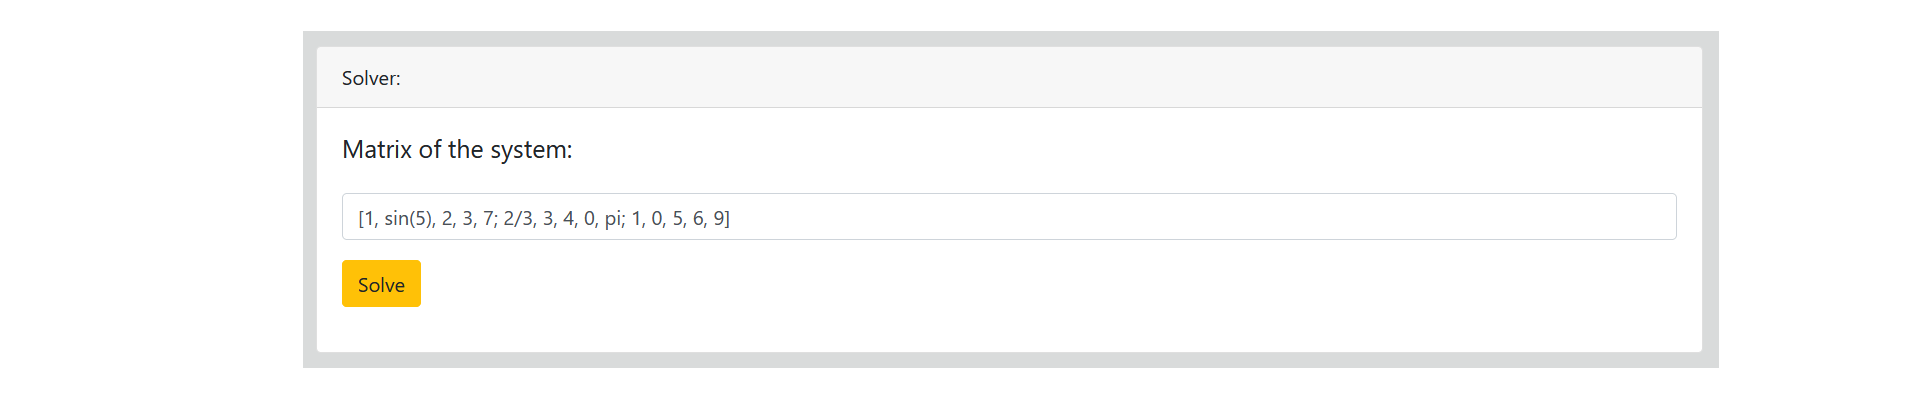
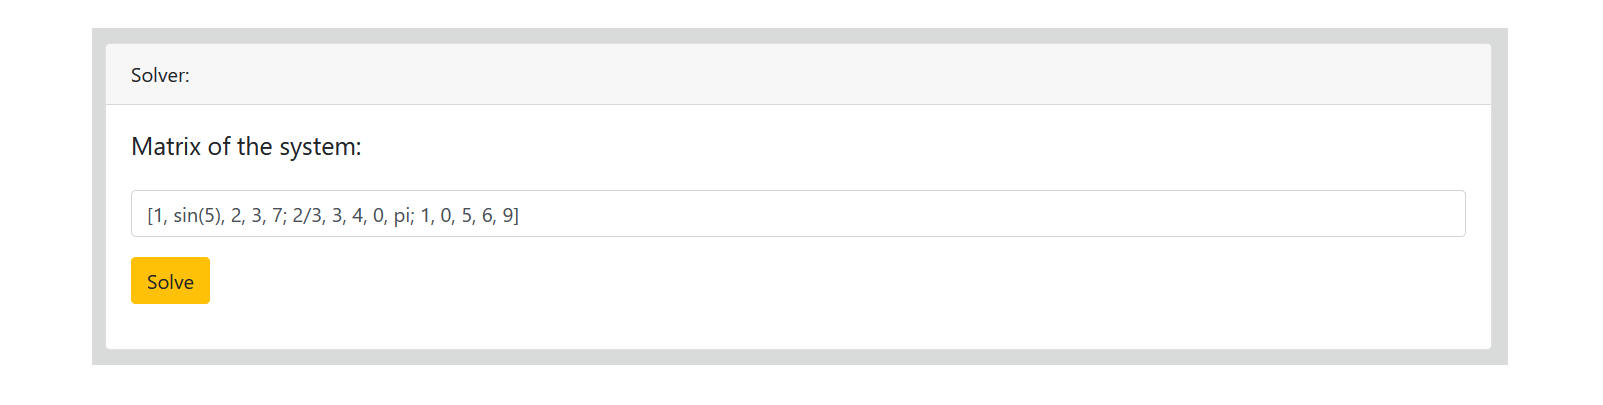
To heroku

Changed region(s): [[0.0312, 0.0593, 0.9669, 0.9185]]

diff --git a/templates/index.html b/templates/index.html
@@ -25,7 +25,7 @@
               <ul class=flashes>
               {% for message in messages %}
                 <li>
-                  <div class="alert alert-warning alert-dismissible fade show" role="alert">
+                  <div class="alert alert-danger alert-dismissible fade show" role="alert">
                       <strong>Holy guacamole!</strong> {{message}}
                       <button type="button" class="close" data-dismiss="alert" aria-label="Close">
                         <span aria-hidden="true">&times;</span>
@@ -38,10 +38,31 @@
           {% endwith %}
 
           <section>
-            <h1>Portada</h1>
+            <h1>Systems of Equations Solver</h1>
+            <p>Solve linear systems of equations of dimension NxN with real coefficients.</p>
           </section>
           
           <br>
+          <div class="card border-danger mb-3">
+            <div class="card-header">
+              <h3>
+                Example:
+              </h3>
+            </div>
+            <div class="card-body">
+              <p>For the system:</p>
+            </div>
+            <img src="{{ url_for('static', filename='images/screenshot1.png') }}" class="card-img-bottom" alt="">
+            <div class="card-footer border-danger">
+              <p>The input of the solver is the extended matrix of the system:</p> 
+              <p style="text-align: center;">[1, sin(5), 2, 3, 7; 2/3, 3, 4, 0, pi; 1, 0, 5, 6, 9]</p>
+            </div>
+          </div>
+          
+          <br>
+          <hr>
+          <br>
+
           <div class="card">
               <div class="card-header">
                   Solver:
@@ -59,7 +80,7 @@
                               <input class="form-control" type="text" id="matrix" name="matrix" value="{{matrix}}" required>
                           </div>
                       </div>
-                      <input class="btn btn-warning" type="submit" value="Solve"> 
+                      <input class="btn btn-danger" type="submit" value="Solve"> 
                   </form>
                 </p>
               </div>

diff --git a/README.md b/README.md
@@ -8,7 +8,7 @@
 
 ## Introduction
 
-A web app powered by Flask to calculate the solution of systems of linear equations of dimension NxN with real coefficients. The solver function is an implementaction of the Gauss–Jordan elimination method and the app is deployed on Heroku.
+A web app powered by Flask to calculate the solution of systems of linear equations of dimension NxN with real coefficients. The solver function is an implementaction of the Gauss–Jordan elimination method and the app is deployed on Heroku [tets go to ](https://www.quora.com).
 
 
 ## Technologies
@@ -20,7 +20,7 @@ This project was created with:
 * CSS
 
 ## Example
-For a  following system:
+For the following system:
 ![System](./static/images/screenshot1.png)
 
 The input of the solver is the extended system coefficient matrix
